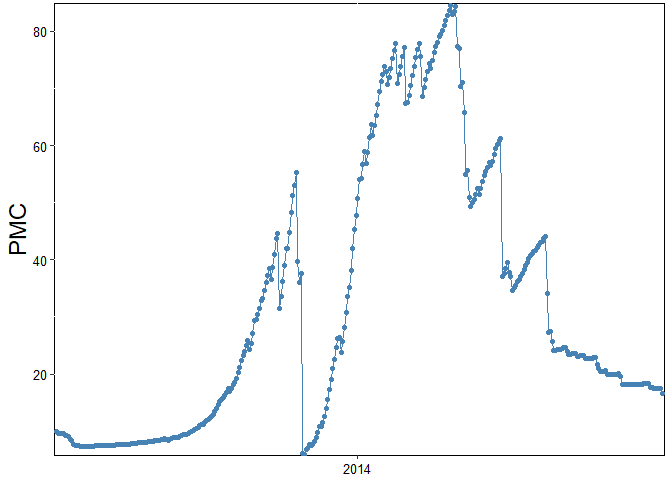
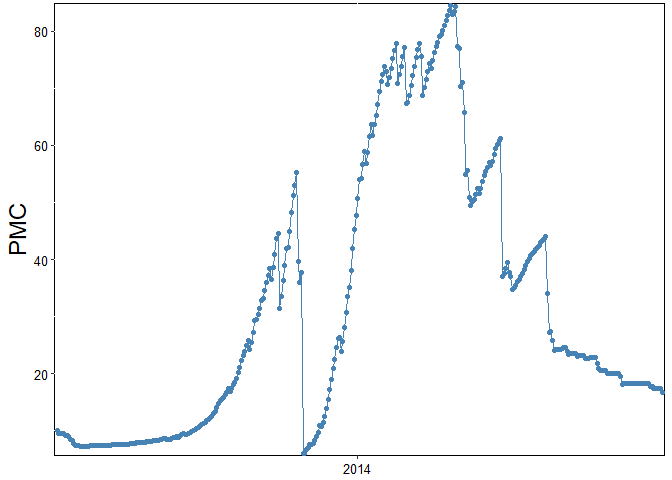
Final modifications

diff --git a/README.md b/README.md
@@ -67,21 +67,26 @@ Prepares input data for PMC calculations by standardizing column names
 and formats. It is recommended to run this function before any other
 PMC-related functions.
 
-    #> The 'PET' column is missing. You can calculate it using the 'PETpt()' function.
-    #> Missing values in 'PPT' column have been replaced with 0.
-    #> No missing values found.
-    #> Note: 'PPT' and 'PET' values must be in centimeters (cm). If your data is in millimeters (mm), please use the 'mm_to_cm()' function to convert it.
-    #> Data processed successfully with 730 rows and 4 columns.
+``` r
+df <- clean_data(Mildred_Lake)
+#> The 'PET' column is missing. You can calculate it using the 'PETpt()' function.
+#> Missing values in 'PPT' column have been replaced with 0.
+#> No missing values found.
+#> Note: 'PPT' and 'PET' values must be in centimeters (cm). If your data is in millimeters (mm), please use the 'mm_to_cm()' function to convert it.
+#> Data processed successfully with 730 rows and 4 columns.
+```
 
 mm_to_cm()
 
 Converts selected variables from millimeters (mm) to centimeters (cm) by
 multiplying by 0.1.
 
-    #> ℹ Rendering development documentation for "mm_to_cm"
-    #> The following column(s) were successfully converted from millimeters to centimeters: PPT
-    #> 
-    #> You can now compute effective precipitation using the `eff_ppt()` function.
+``` r
+?mm_to_cm
+df <- mm_to_cm(df, columns = "PPT")
+#> The following column(s) were successfully converted from millimeters to centimeters: PPT
+#> You can now compute effective precipitation using the `eff_ppt()` function.
+```
 
 eff_ppt()
 
@@ -90,10 +95,12 @@ precipitation that contributes to peat moisture storage (after
 subtracting negligible rainfall events). The threshold argument defines
 the minimum precipitation to be considered effective.
 
-    #> ℹ Rendering development documentation for "eff_ppt"
-    #> Effective precipitation was calculated using a threshold of 0.1
-    #> 
-    #> You can now compute potential evapotranspiration using the `PETpt()` function.
+``` r
+?eff_ppt
+df <- eff_ppt(df, column = "PPT_cm", threshold = 0.1, year_to_plot = "2015")
+#> Effective precipitation was calculated using a threshold of 0.1
+#> You can now compute potential evapotranspiration using the `PETpt()` function.
+```
 
 <img src="man/figures/README-c5-1.png" width="100%" /> PETpt()
 
@@ -101,8 +108,19 @@ Computes daily potential evapotranspiration (PET) using the
 Priestley–Taylor method, a simplified alternative to the Penman–Monteith
 equation suitable for peatland environments.
 
-    #> ℹ Rendering development documentation for "PETpt"
-    #> PET calculation completed successfully. You may now proceed with PMC estimation using the `PMC()` function.
+``` r
+?PETpt
+df <- PETpt(df,
+  latitude = 65.2825,
+    alpha = 1,
+    y = 0.063,
+    Gsc = 0.0820,
+    lambda = 2453,
+    a = 0.17,
+    b = 0.59,
+    year_to_plot = "2014")
+#> PET calculation completed successfully. You may now proceed with PMC estimation using the `PMC()` function.
+```
 
 <img src="man/figures/README-c6-1.png" width="100%" />
 
@@ -113,8 +131,19 @@ water‐balance approach that integrates effective precipitation and
 actual evapotranspiration. PMC increases during drying periods and
 decreases when water storage is replenished.
 
-    #> ℹ Rendering development documentation for "PMC"
-    #> PMC was calculated successfully. If your dataset includes ISI, you can now proceed with the PMC_ISI calculation using the PMCISI() function.
+``` r
+?PMC
+df <- PMC(df,
+    PET_column = "PET",
+    A = 0.8674,
+    B = 0.0540,
+    start_PMC = 10,
+    C = 0.15, # C = 0.1
+    Sy_min = 0.1,
+    PMC_min = 0.1,
+    year_to_plot = "2014")
+#> PMC was calculated successfully. If your dataset includes ISI, you can now proceed with the PMC_ISI calculation using the PMCISI() function.
+```
 
 <img src="man/figures/README-c7-1.png" width="100%" /> \## Visualization
 utilities
@@ -122,6 +151,19 @@ utilities
 The package includes visuals(), a helper function to produce a
 four-panel figure summarizing key hydrometeorological variables.
 
-    #> ℹ Rendering development documentation for "PMC"
+``` r
+?PMC
+df <- visuals(df,
+    var1 = "PET",
+    var2 = "Tavg",
+    var3 = "PMC",
+    var4 = "eff_Precip_cm",
+    x_label_vr1 = "PET (cm)",
+    x_label_vr2 = "Tair (°C)",
+    x_label_vr3 = "PMC",
+    x_label_vr4 = "Effective Precipitation (cm)",
+    year_to_plot = "2014"
+  )
+```
 
 <img src="man/figures/README-c8-1.png" width="100%" />